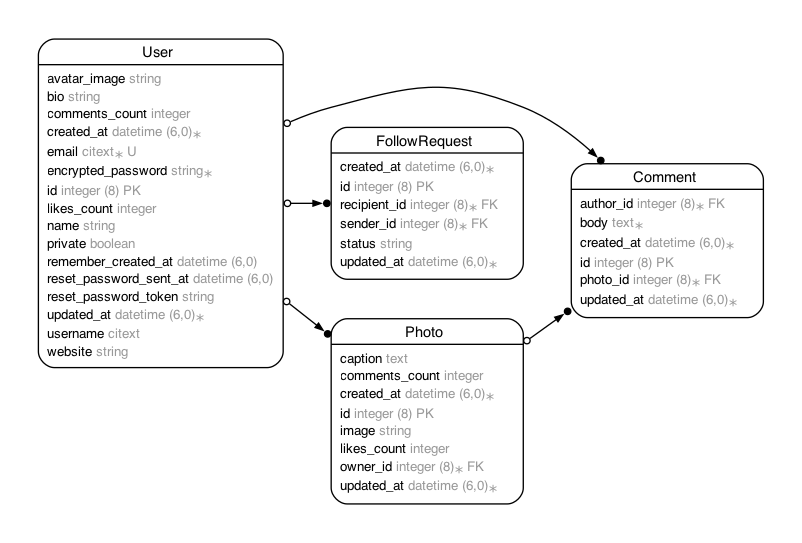
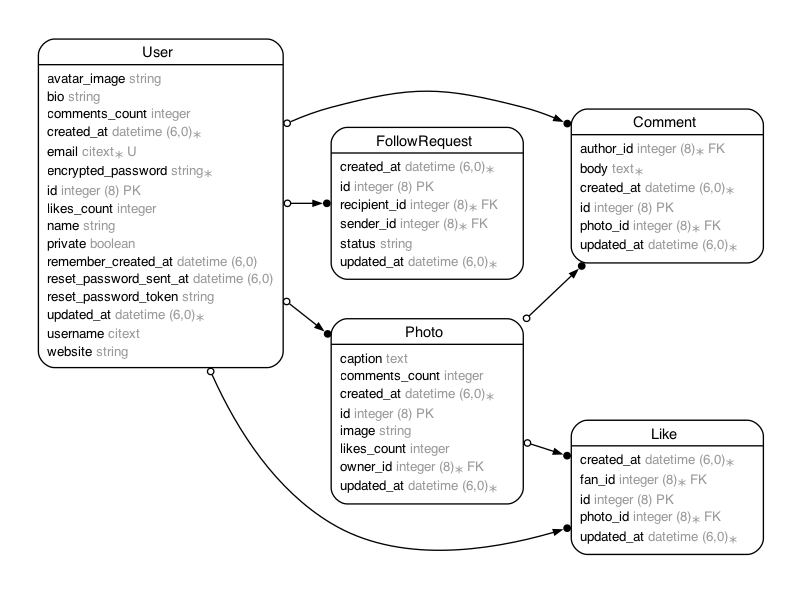
Generated Liked

diff --git a/app/controllers/likes_controller.rb b/app/controllers/likes_controller.rb
@@ -1,0 +1,70 @@
+class LikesController < ApplicationController
+  before_action :set_like, only: %i[ show edit update destroy ]
+
+  # GET /likes or /likes.json
+  def index
+    @likes = Like.all
+  end
+
+  # GET /likes/1 or /likes/1.json
+  def show
+  end
+
+  # GET /likes/new
+  def new
+    @like = Like.new
+  end
+
+  # GET /likes/1/edit
+  def edit
+  end
+
+  # POST /likes or /likes.json
+  def create
+    @like = Like.new(like_params)
+
+    respond_to do |format|
+      if @like.save
+        format.html { redirect_to @like, notice: "Like was successfully created." }
+        format.json { render :show, status: :created, location: @like }
+      else
+        format.html { render :new, status: :unprocessable_entity }
+        format.json { render json: @like.errors, status: :unprocessable_entity }
+      end
+    end
+  end
+
+  # PATCH/PUT /likes/1 or /likes/1.json
+  def update
+    respond_to do |format|
+      if @like.update(like_params)
+        format.html { redirect_to @like, notice: "Like was successfully updated." }
+        format.json { render :show, status: :ok, location: @like }
+      else
+        format.html { render :edit, status: :unprocessable_entity }
+        format.json { render json: @like.errors, status: :unprocessable_entity }
+      end
+    end
+  end
+
+  # DELETE /likes/1 or /likes/1.json
+  def destroy
+    @like.destroy!
+
+    respond_to do |format|
+      format.html { redirect_to likes_path, status: :see_other, notice: "Like was successfully destroyed." }
+      format.json { head :no_content }
+    end
+  end
+
+  private
+    # Use callbacks to share common setup or constraints between actions.
+    def set_like
+      @like = Like.find(params.expect(:id))
+    end
+
+    # Only allow a list of trusted parameters through.
+    def like_params
+      params.expect(like: [ :fan_id, :photo_id ])
+    end
+end

diff --git a/db/schema.rb b/db/schema.rb
@@ -10,7 +10,7 @@
 #
 # It's strongly recommended that you check this file into your version control system.
 
-ActiveRecord::Schema[8.0].define(version: 2025_07_14_172112) do
+ActiveRecord::Schema[8.0].define(version: 2025_07_14_172350) do
   # These are extensions that must be enabled in order to support this database
   enable_extension "citext"
   enable_extension "pg_catalog.plpgsql"
@@ -32,6 +32,15 @@ ActiveRecord::Schema[8.0].define(version: 2025_07_14_172112) do
     t.datetime "updated_at", null: false
     t.index ["recipient_id"], name: "index_follow_requests_on_recipient_id"
     t.index ["sender_id"], name: "index_follow_requests_on_sender_id"
+  end
+
+  create_table "likes", force: :cascade do |t|
+    t.bigint "fan_id", null: false
+    t.bigint "photo_id", null: false
+    t.datetime "created_at", null: false
+    t.datetime "updated_at", null: false
+    t.index ["fan_id"], name: "index_likes_on_fan_id"
+    t.index ["photo_id"], name: "index_likes_on_photo_id"
   end
 
   create_table "photos", force: :cascade do |t|
@@ -212,6 +221,8 @@ ActiveRecord::Schema[8.0].define(version: 2025_07_14_172112) do
   add_foreign_key "comments", "users", column: "author_id"
   add_foreign_key "follow_requests", "users", column: "recipient_id"
   add_foreign_key "follow_requests", "users", column: "sender_id"
+  add_foreign_key "likes", "photos"
+  add_foreign_key "likes", "users", column: "fan_id"
   add_foreign_key "photos", "users", column: "owner_id"
   add_foreign_key "solid_queue_blocked_executions", "solid_queue_jobs", column: "job_id", on_delete: :cascade
   add_foreign_key "solid_queue_claimed_executions", "solid_queue_jobs", column: "job_id", on_delete: :cascade

diff --git a/app/models/like.rb b/app/models/like.rb
@@ -1,0 +1,24 @@
+# == Schema Information
+#
+# Table name: likes
+#
+#  id         :bigint           not null, primary key
+#  created_at :datetime         not null
+#  updated_at :datetime         not null
+#  fan_id     :bigint           not null
+#  photo_id   :bigint           not null
+#
+# Indexes
+#
+#  index_likes_on_fan_id    (fan_id)
+#  index_likes_on_photo_id  (photo_id)
+#
+# Foreign Keys
+#
+#  fk_rails_...  (fan_id => users.id)
+#  fk_rails_...  (photo_id => photos.id)
+#
+class Like < ApplicationRecord
+  belongs_to :fan, class_name: "User"
+  belongs_to :photo
+end

diff --git a/db/migrate/20250714172350_create_likes.rb b/db/migrate/20250714172350_create_likes.rb
@@ -1,0 +1,10 @@
+class CreateLikes < ActiveRecord::Migration[8.0]
+  def change
+    create_table :likes do |t|
+      t.references :fan, null: false, foreign_key: { to_table: :users }
+      t.references :photo, null: false, foreign_key: true
+
+      t.timestamps
+    end
+  end
+end

diff --git a/config/routes.rb b/config/routes.rb
@@ -1,4 +1,5 @@
 Rails.application.routes.draw do
+  resources :likes
   resources :follow_requests
   resources :comments
   resources :photos
